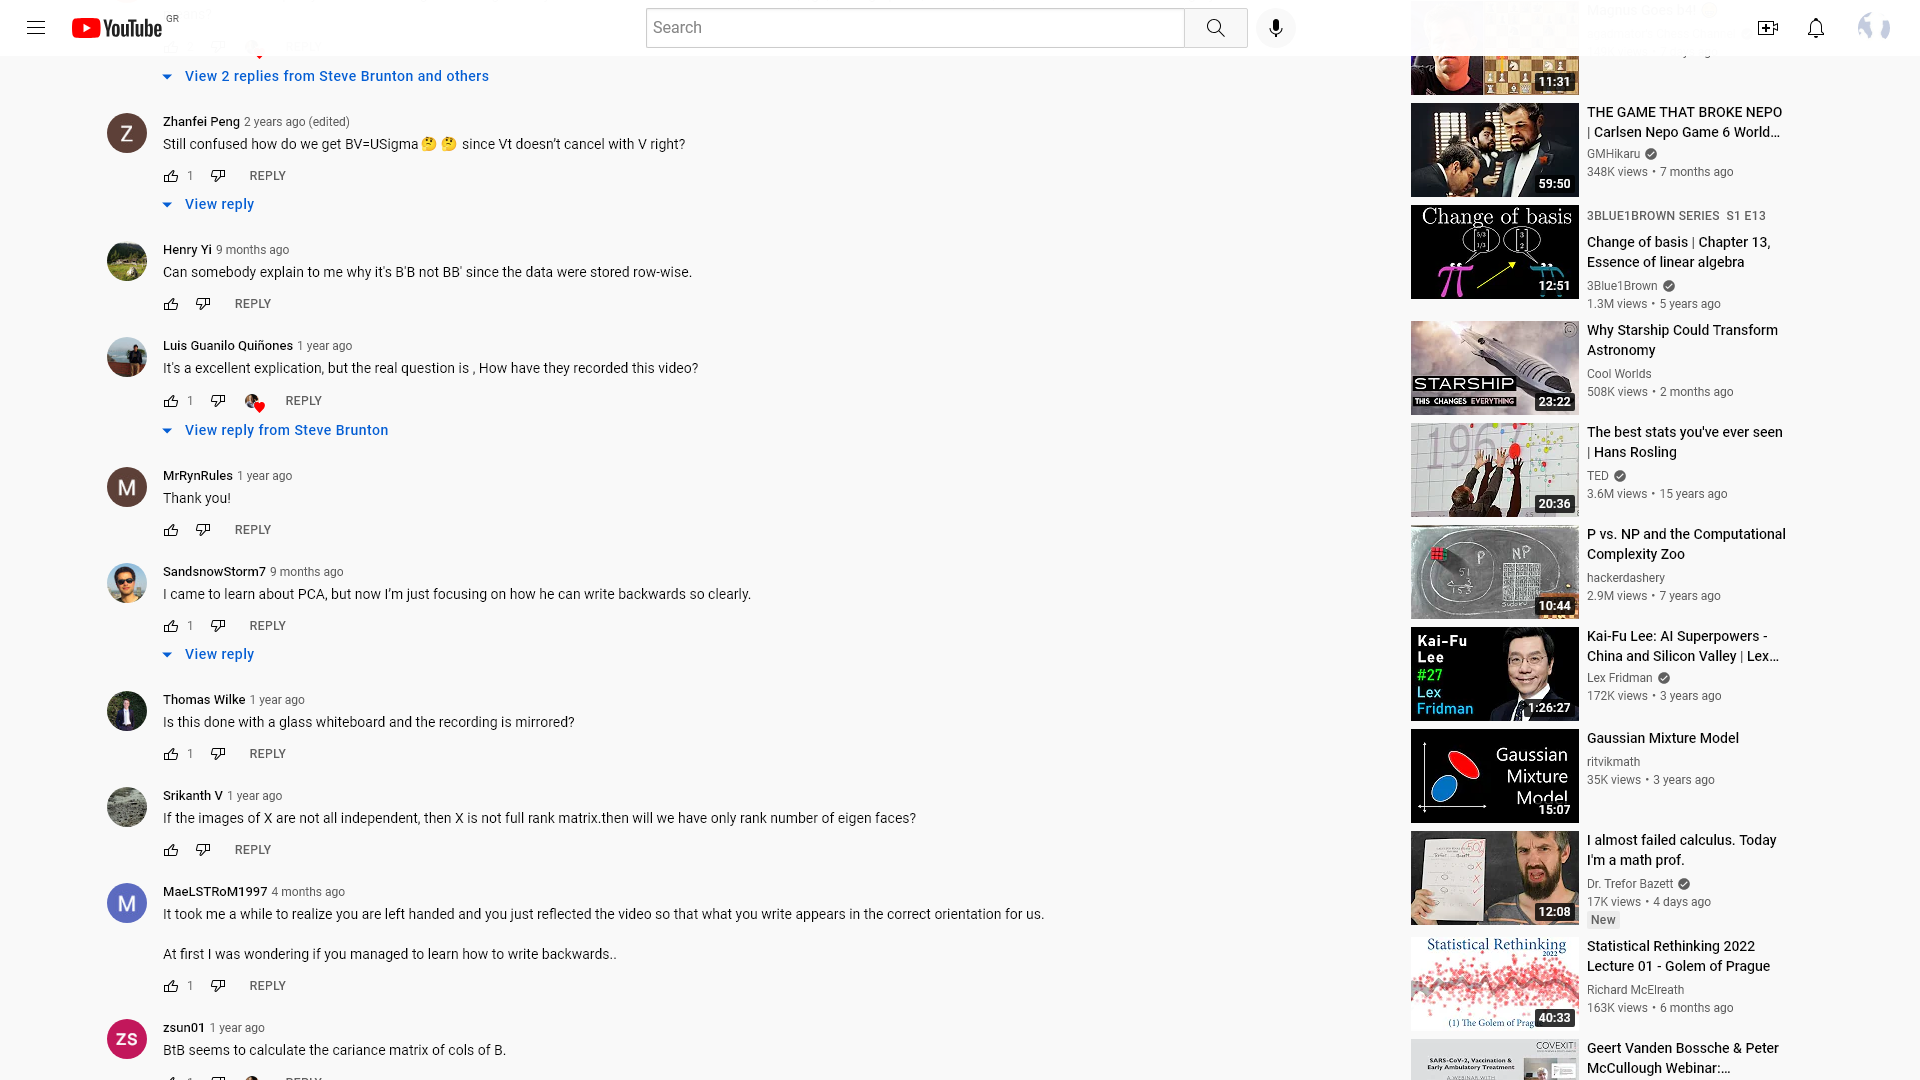
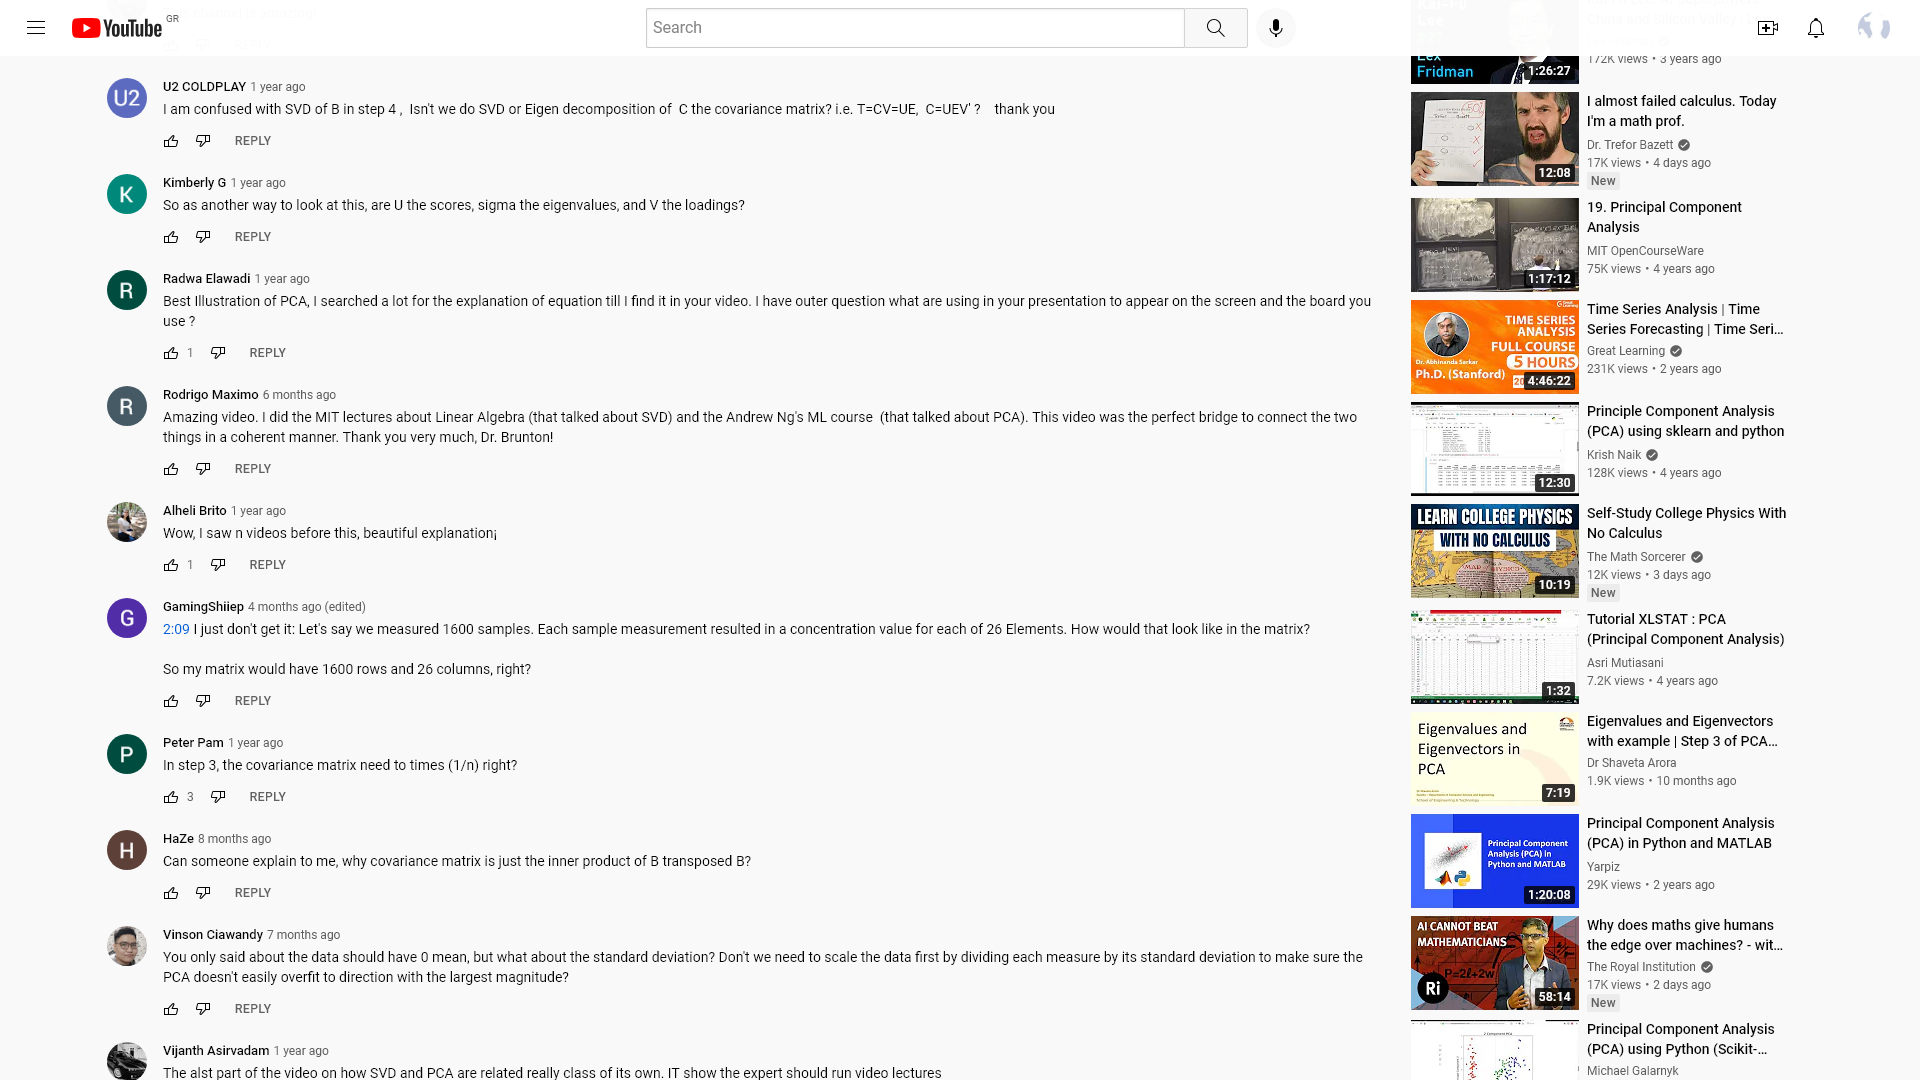
Changed scrolldown values to see effects

diff --git a/htmlRendering.py b/htmlRendering.py
@@ -88,7 +88,7 @@ class htmlRenderer:
       async def macOSPageDown():
             await page.keyboard.down('fn')
             await page.keyboard.down('Shift')
-            await page.keyboard.down('ArrowDown')
+            await page.keyboard.press('ArrowDown')
             await page.keyboard.up('Shift')
             await page.keyboard.up('fn')
 
